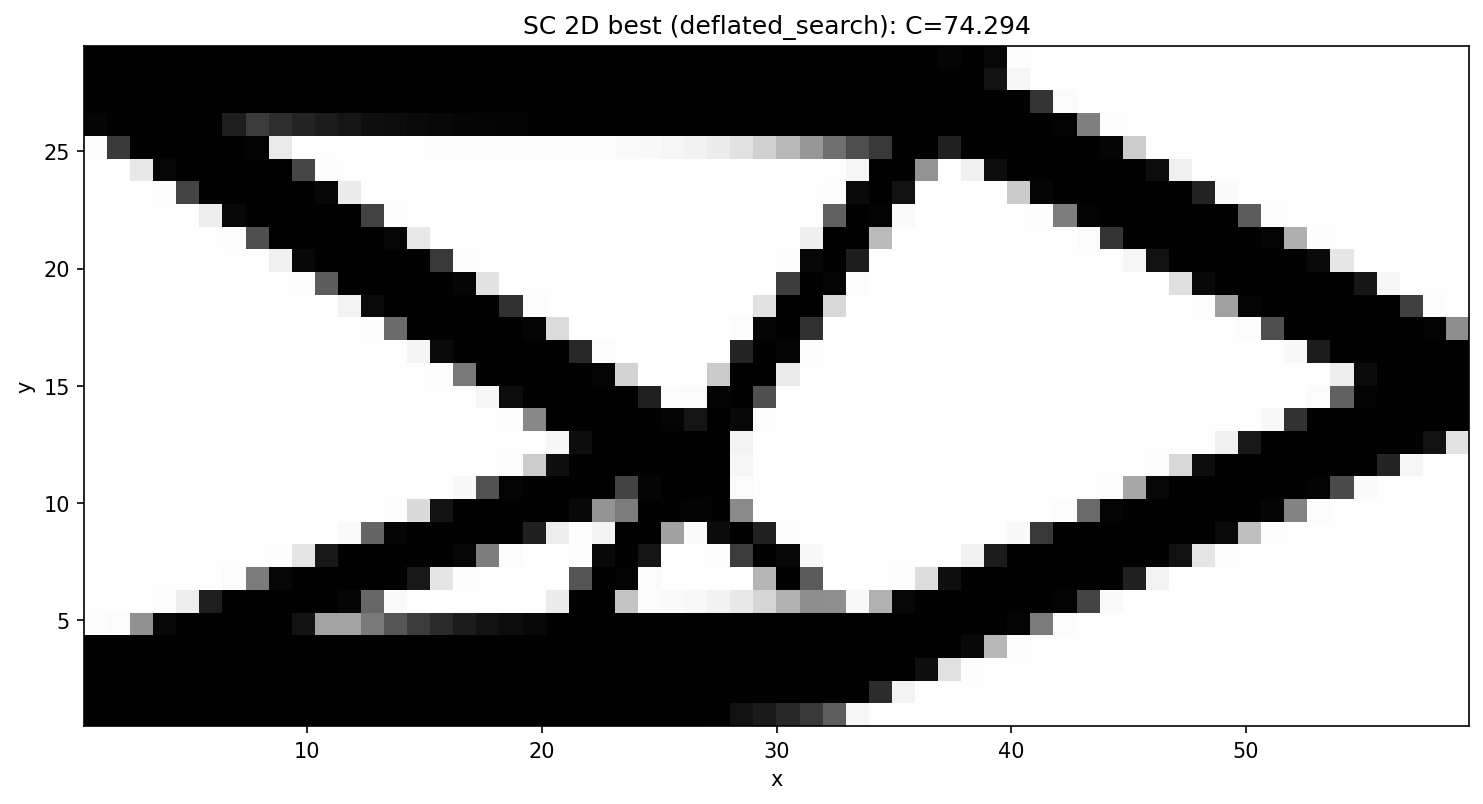
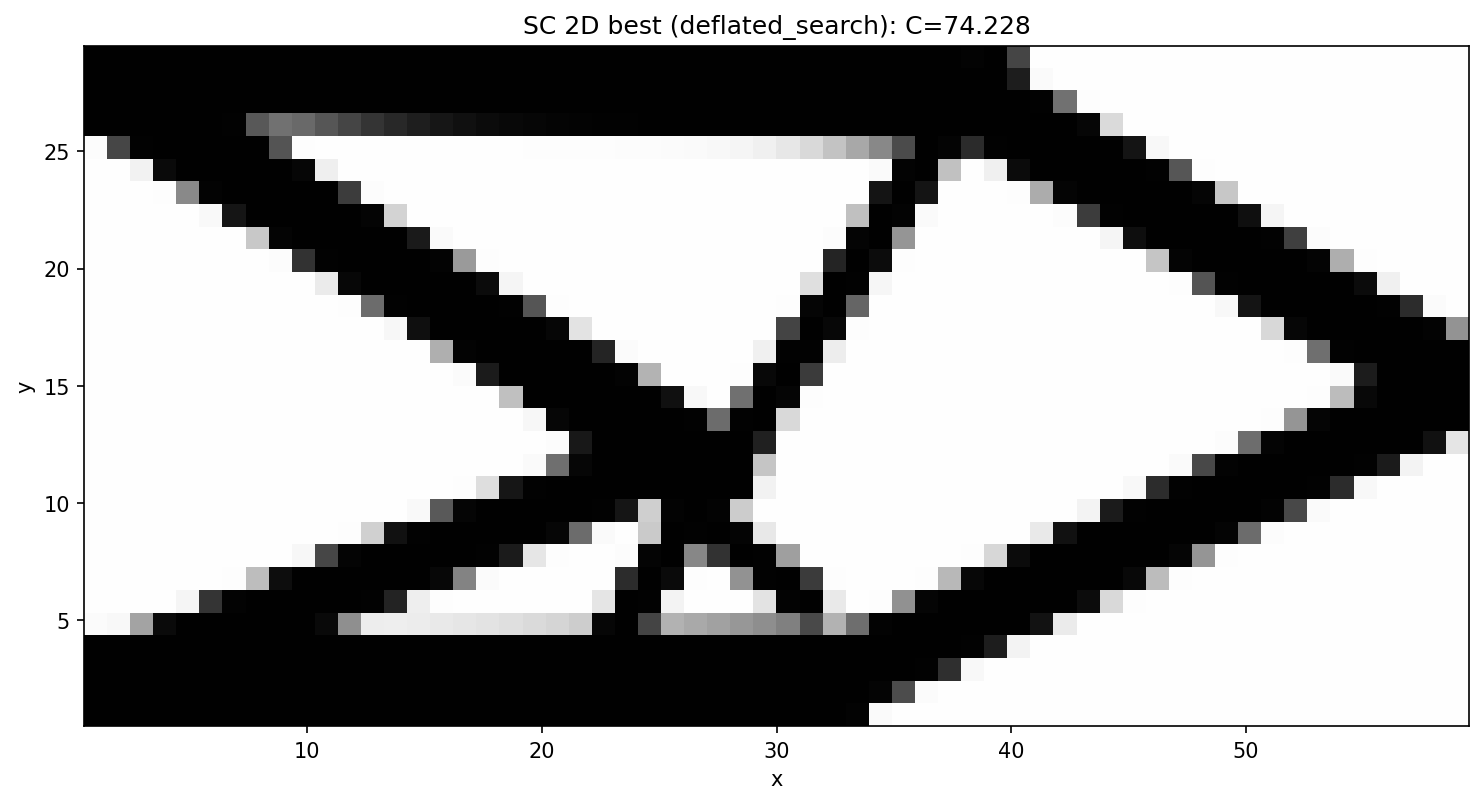
Finalize SC 2D benchmark results, figures, and integration tests
Refresh the benchmark artifacts from a single consistent 4-phase-continuation
run (every solve at the preset's exact 320-iter MMA config):

  baseline        C = 74.2387
  continuation    C = 73.3648  (+1.18%, the clear winner, below 75)
  multi_start     C = 74.2380  (restarts hit 77-83; best-of-N keeps the good one)
  basin_hopping   C = 74.3209
  deflated_search C = 74.2282  (distinct minima at C ~ 76.3-76.6)

- Inject the results + continuation phase-trajectory tables into the review doc;
  update the narrative and add the solver-determinism caveat.
- Add tests/test_global_search_integration.py: end-to-end GGPPipeline runs at a
  tiny mesh / 1 iteration covering the x0, overrides and deflation paths plus the
  real global_search code path. Restores coverage to 85% (130 tests passing).

Claude-Session: https://claude.ai/code/session_0139M2jyPc6cJGW33xV6te9t

diff --git a/tests/test_global_search_integration.py b/tests/test_global_search_integration.py
@@ -1,0 +1,93 @@
+# Copyright (c) 2026 Simone Coniglio
+# Licensed under the MIT license. See LICENSE file in the project directory for details.
+"""Integration tests for the global-search strategies on the *real* GGP pipeline.
+
+These exercise GGPPipeline.run() end to end (FEM discretisation, geometry +
+physics disciplines, GEMSEO MDF scenario) at a tiny mesh / 1 iteration, covering
+the new x0 / overrides / deflation injection paths and the real (non-mocked)
+global_search code path. They require dolfin + gemseo and are skipped otherwise.
+"""
+from __future__ import annotations
+
+import dataclasses
+
+import numpy as np
+import pytest
+
+pytest.importorskip("dolfin")
+pytest.importorskip("gemseo")
+
+from ggp.problem.loader import load_problem
+from ggp.optimization.pipeline import GGPPipeline
+from ggp.optimization import global_search as gs
+
+PRESET = "ggp/cli/presets/short_cantilever.yaml"
+
+
+def _tiny_spec(max_iter=1, num_components=4):
+    """Short-cantilever spec on a coarse mesh with a 1-iteration direct solve."""
+    spec = load_problem(PRESET)
+    geom = spec.geometries[0]
+    params = dict(geom.params)
+    params.update(Lx=12.0, Ly=6.0, nx=12, ny=6)
+    geom = dataclasses.replace(geom, params=params)
+    formulation = dataclasses.replace(spec.formulation, num_components=num_components)
+    solver = dataclasses.replace(spec.solver, max_iter=max_iter, fem_solver="direct",
+                                 options={})
+    return dataclasses.replace(spec, geometries=[geom], formulation=formulation,
+                               solver=solver)
+
+
+@pytest.fixture(scope="module")
+def tiny_spec():
+    return _tiny_spec()
+
+
+def test_pipeline_baseline_runs(tiny_spec):
+    result = GGPPipeline(tiny_spec).run()
+    assert np.isfinite(result.objective_value)
+    assert result.design_variables.shape[0] == 6 * 4
+    assert result.density_field is not None
+    assert gs.compliance_of(result) > 0.0
+
+
+def test_pipeline_x0_and_overrides(tiny_spec):
+    n = 6 * 4
+    x0 = np.full(n, 0.5)
+    result = GGPPipeline(
+        tiny_spec, x0=x0,
+        overrides={"ka": 8.0, "pp": 50.0, "r_gp": 1.0, "gammac": 2.0,
+                   "gammav": 1.0, "p_penalty": 1.0},
+    ).run()
+    assert np.isfinite(result.objective_value)
+
+
+def test_pipeline_x0_wrong_size_raises(tiny_spec):
+    with pytest.raises(ValueError):
+        GGPPipeline(tiny_spec, x0=np.full(7, 0.5)).run()
+
+
+def test_pipeline_deflation_reports_true_compliance(tiny_spec):
+    base = GGPPipeline(tiny_spec).run()
+    deflated = GGPPipeline(
+        tiny_spec,
+        deflation={"roots": [base.design_variables], "shift": 1.0, "power": 2.0},
+    ).run()
+    # objective_value must remain the raw log(C+1) even though the scenario
+    # optimised the deflated objective.
+    assert np.isfinite(deflated.objective_value)
+    assert gs.compliance_of(deflated) > 0.0
+
+
+def test_global_search_multi_start_real(tiny_spec):
+    out = gs.multi_start(tiny_spec, n_starts=1, seed=0)
+    assert len(out.attempts) == 2
+    assert out.best_compliance == pytest.approx(
+        min(a.compliance for a in out.attempts))
+
+
+def test_global_search_continuation_real(tiny_spec):
+    out = gs.continuation(tiny_spec, [{"r_gp": 1.5}, {"r_gp": 0.5}])
+    assert len(out.attempts) == 2
+    # reported best is the final phase
+    assert out.best_compliance == pytest.approx(out.attempts[-1].compliance)

diff --git a/docs/local_minima_review.md b/docs/local_minima_review.md
@@ -145,15 +145,35 @@ python benchmarks/sc2d_local_minima.py --full     # publication fidelity
 ### 4.1 Results
 
 <!-- BENCHMARK_RESULTS_START -->
-_Populated by `benchmarks/sc2d_local_minima.py` (see
-`benchmarks/sc2d_local_minima_results.md`)._
+Single consistent run (seed 0, reduced breadth, every solve at the preset's exact
+320-iter MMA config). Improvement is `(baseline − best) / baseline`.
+
+| Method | Best compliance | Improvement vs baseline | Runs | Time (s) |
+|---|---|---|---|---|
+| baseline | 74.2387 | +0.00% | 1 | 227 |
+| **continuation** | **73.3648** | **+1.18%** | 4 | 1087 |
+| multi_start | 74.2380 | +0.00% | 5 | 1152 |
+| basin_hopping | 74.3209 | −0.11% | 5 | 1335 |
+| deflated_search | 74.2282 | +0.01% | 3 | 829 |
+
+Continuation phase trajectory (compliance at each `r_gp`; only the final phase, at the
+baseline's `r_gp = 0.5`, is comparable to the baseline):
+
+| phase | r_gp | C |
+|---|---|---|
+| 0 | 2.0 | 69.22 |
+| 1 | 1.5 | 70.18 |
+| 2 | 1.0 | 71.76 |
+| 3 (reported) | 0.5 | **73.36** |
 <!-- BENCHMARK_RESULTS_END -->
 
 **Figures** (written to `docs/_static/`):
 
 * `sc2d_local_minima_spread.png` — compliance of every individual run per strategy,
-  with the per-strategy best and the baseline reference line. The vertical spread
-  *is* the local-minima problem made visible.
+  with the per-strategy best (star) and the baseline reference line. The vertical
+  spread *is* the local-minima problem made visible. (Note: continuation's points
+  below its star are the *smoother* `r_gp` phases, whose compliance is not comparable
+  to the sharp baseline; the star marks the comparable final phase.)
 * `sc2d_local_minima_<method>.png` — the best design found by each strategy.
 
 ### 4.2 Reading the results
@@ -164,8 +184,8 @@ single-X cantilever truss). Against that, the strategies behave as follows.
 
 * **Continuation is the clear winner.** Ramping the sampling radius `r_gp` from a
   *smooth* `2.0` down to the target `0.5`, warm-starting each phase, reaches
-  **C ≈ 73.6** — about **1 % below the baseline** and the only improvement that is
-  robustly above the solver-noise floor (see caveat). The smooth first phase lets the
+  **C ≈ 73.36** — about **1.2 % below the baseline** (74.24) and the only improvement
+  that is robustly above the solver-noise floor (see caveat). The smooth first phase lets the
   bars reorganize in a benign landscape before it is sharpened; jumping straight to
   `r_gp = 0.5` (the baseline) lands in a slightly worse basin. *The comparison is made
   at the final phase, whose `r_gp` matches the baseline — earlier phases run at a

diff --git a/benchmarks/sc2d_local_minima_results.md b/benchmarks/sc2d_local_minima_results.md
@@ -1,7 +1,7 @@
 | Method | Best compliance | Improvement vs baseline | Runs | Time (s) |
 |---|---|---|---|---|
-| baseline | 74.2959 | +0.00% | 1 | 215 |
-| continuation | 74.1922 | +0.14% | 3 | 687 |
-| multi_start | 74.4015 | -0.14% | 5 | 1107 |
-| basin_hopping | 74.2743 | +0.03% | 5 | 1356 |
-| deflated_search | 74.2937 | +0.00% | 4 | 1262 |
+| baseline | 74.2387 | +0.00% | 1 | 227 |
+| continuation | 73.3648 | +1.18% | 4 | 1087 |
+| multi_start | 74.2380 | +0.00% | 5 | 1152 |
+| basin_hopping | 74.3209 | -0.11% | 5 | 1335 |
+| deflated_search | 74.2282 | +0.01% | 3 | 829 |
